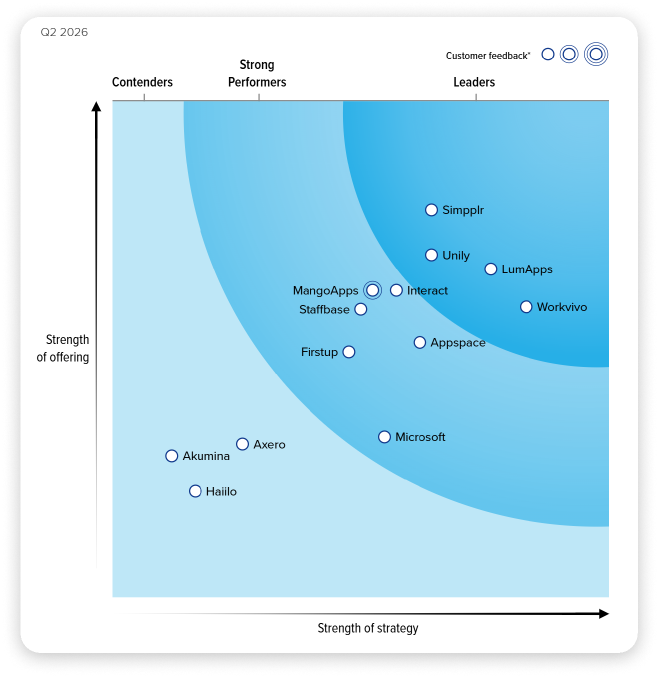
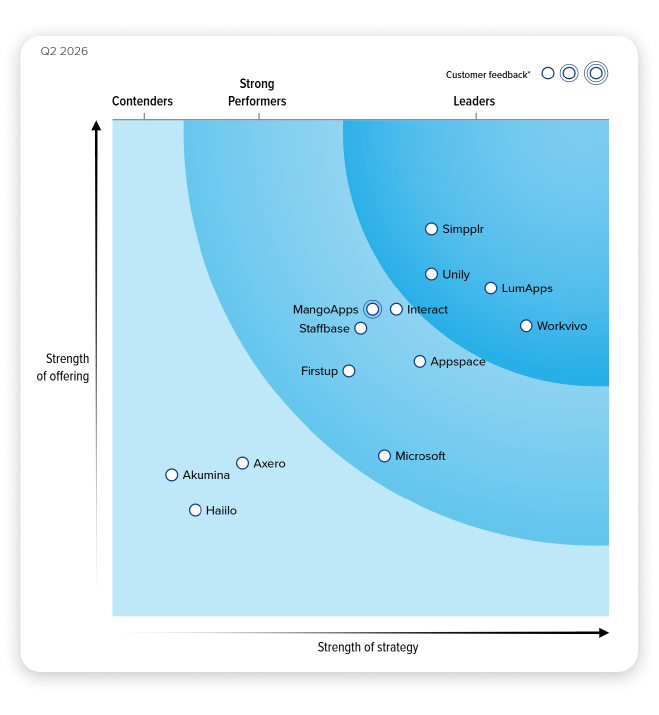
Workvivo markers on the Gartner and Forrester charts; calmer open-chat layout
- Marker overlay (from the G2 chart style) on the 2026 Magic Quadrant and
  Q2 2026 Forrester Wave; chart files padded to the card ratio, unmodified
- Ask: orb stays beside the conversation while it grows
- Agent: each conversation starts with a clean transcript, and the panel
  explains why a conversation closed (details logged to the console)

Claude-Session: https://claude.ai/code/session_01QMc48N69JY1vkgQtJJt47t

diff --git a/agent.js b/agent.js
@@ -25,6 +25,7 @@ function initAgent(section) {
   let pulseFrame = 0;
   let level = 0;
   let lastSent = '';
+  let askedSomething = false;
   let sdkPromise = null;
 
   const setState = (state, text) => {
@@ -41,6 +42,7 @@ function initAgent(section) {
   };
   const openPanel = () => {
     panel.hidden = false;
+    section.classList.add('has-panel');
   };
 
   const loadSdk = () => {
@@ -130,6 +132,7 @@ function initAgent(section) {
     const message = text.trim();
     if (!message || !conversation) return;
     lastSent = message;
+    askedSomething = true;
     addMessage('user', message);
     try {
       conversation.sendUserMessage(message);
@@ -150,6 +153,8 @@ function initAgent(section) {
 
     starting = true;
     let mode = wanted;
+    log.replaceChildren();
+    askedSomething = false;
     setState('connecting', 'Connecting…');
     try {
       if (mode === 'voice') {
@@ -169,17 +174,25 @@ function initAgent(section) {
         onConnect: () => {
           setState(mode === 'voice' ? 'listening' : 'ready', mode === 'voice' ? 'Listening — go ahead' : 'Connected — ask away');
         },
-        onDisconnect: () => {
+        onDisconnect: details => {
           if (!conversation) return;
+          console.info('[agent] disconnected', details);
           conversation = null;
           kind = null;
           stopPulse();
           section.classList.remove('is-live');
-          setState('ended', 'Conversation ended');
+          if (details?.reason === 'error') {
+            setState('error', 'The connection dropped');
+            addMessage('system', 'Something interrupted the conversation. Start again to pick it back up.');
+          } else {
+            setState('ended', 'Conversation ended');
+            if (!askedSomething) addMessage('system', 'The conversation closed before a question came through. Start again whenever you’re ready.');
+          }
         },
         onError: message => console.warn('[agent]', message),
         onMessage: payload => {
           const fromUser = payload.role === 'user' || payload.source === 'user';
+          if (fromUser) askedSomething = true;
           if (fromUser && payload.message?.trim() === lastSent) { lastSent = ''; return; }
           addMessage(fromUser ? 'user' : 'agent', payload.message);
         },

diff --git a/index.html b/index.html
@@ -374,12 +374,12 @@ Ask my portfolio agent</a>
 <div class="argrid" style="margin-top: 36px; display: grid; grid-template-columns: repeat(3, minmax(0, 1fr)); gap: 20px">
 <figure class="arcard">
 <div class="arlogo"><img loading="lazy" src="./assets/recognition/gartner-logo.png" alt="Gartner" style="height: 28px"></div>
-<div class="arframe"><img loading="lazy" src="./assets/recognition/gartner-mq-chart.png" alt="Gartner Magic Quadrant for Intranet Packaged Solutions, with Workvivo by Zoom in the Leaders quadrant"></div>
+<div class="arframe"><img loading="lazy" src="./assets/recognition/gartner-mq-chart.png" alt="Gartner Magic Quadrant for Intranet Packaged Solutions, with Workvivo by Zoom in the Leaders quadrant"><img class="arhl" src="./assets/recognition/workvivo-marker.png" alt="" aria-hidden="true" style="left: 72.49%; top: 31.15%"></div>
 <figcaption><strong>Magic Quadrant Leader</strong><span>Named a Leader in the Gartner® Magic Quadrant™ for Intranet Packaged Solutions, for the fourth consecutive year in 2026.</span></figcaption>
 </figure>
 <figure class="arcard">
 <div class="arlogo"><img loading="lazy" src="./assets/recognition/forrester-logo.png" alt="Forrester" style="height: 22px"></div>
-<div class="arframe"><img loading="lazy" src="./assets/recognition/forrester-wave-chart.png" alt="The Forrester Wave: Intranet Platforms, Q2 2026, with Workvivo by Zoom as a Leader"></div>
+<div class="arframe"><img loading="lazy" src="./assets/recognition/forrester-wave-chart.png" alt="The Forrester Wave: Intranet Platforms, Q2 2026, with Workvivo by Zoom as a Leader"><img class="arhl" src="./assets/recognition/workvivo-marker.png" alt="" aria-hidden="true" style="left: 79.8%; top: 45.5%"></div>
 <figcaption><strong>Wave Leader</strong><span>Named a Leader in The Forrester Wave™: Intranet Platforms, Q2 2026.</span></figcaption>
 </figure>
 <figure class="arcard" style="position: relative">

diff --git a/redesign.css b/redesign.css
@@ -213,3 +213,12 @@ a.tool-logo:hover,a.tool-logo:focus-visible{color:#FFFFFF}
   .agent-log{max-height:260px}
 }
 .agent-widget-on [data-dock]{display:none !important}
+
+/* Workvivo marker on the analyst charts */
+.arframe>img.arhl{position:absolute;width:12%;height:auto;transform:translate(-50%,-50%);filter:drop-shadow(0 4px 10px rgba(11,11,16,.25));pointer-events:none}
+
+/* Ask: keep the orb beside the conversation instead of floating mid-column */
+#ask{overflow:clip !important}
+@media (min-width:900px){
+  [data-agent].has-panel [data-agent-orb]{align-self:flex-start;position:sticky !important;top:max(96px,calc(50vh - 220px))}
+}
